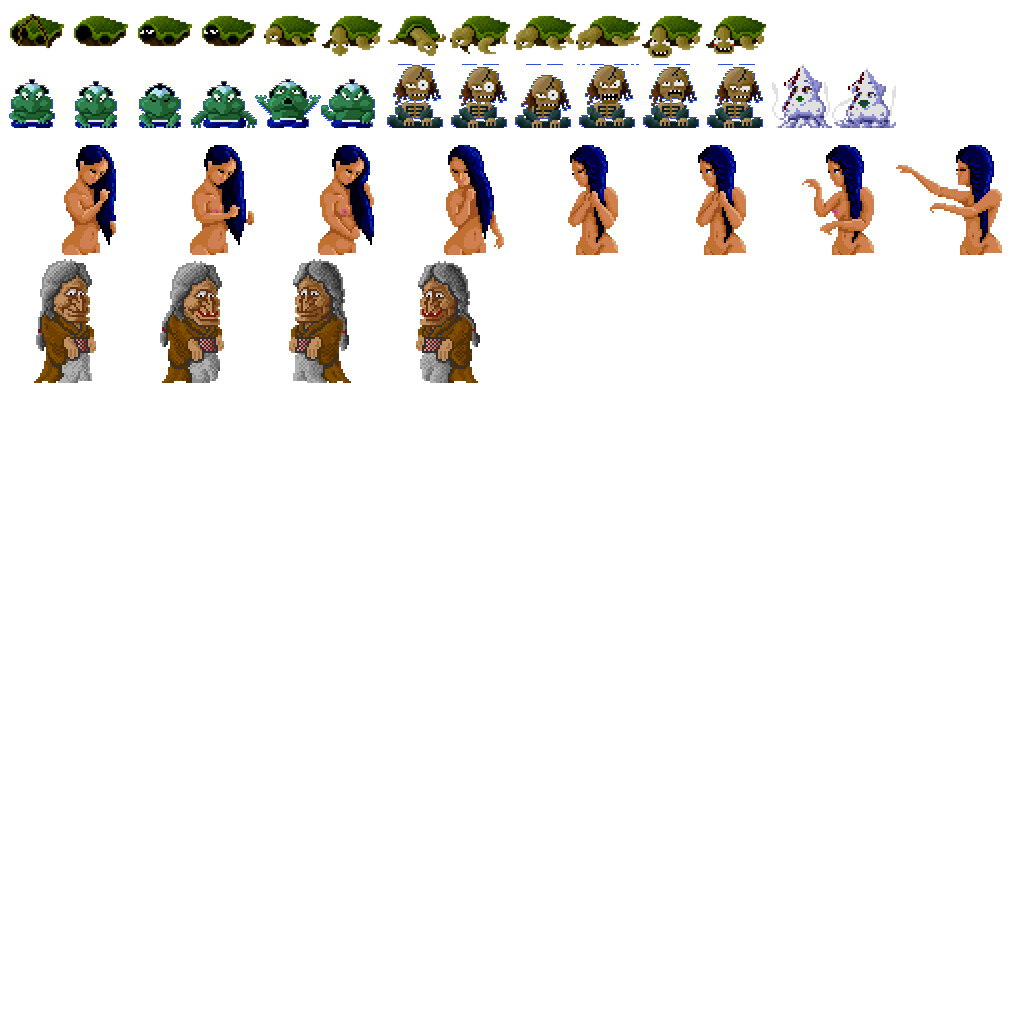
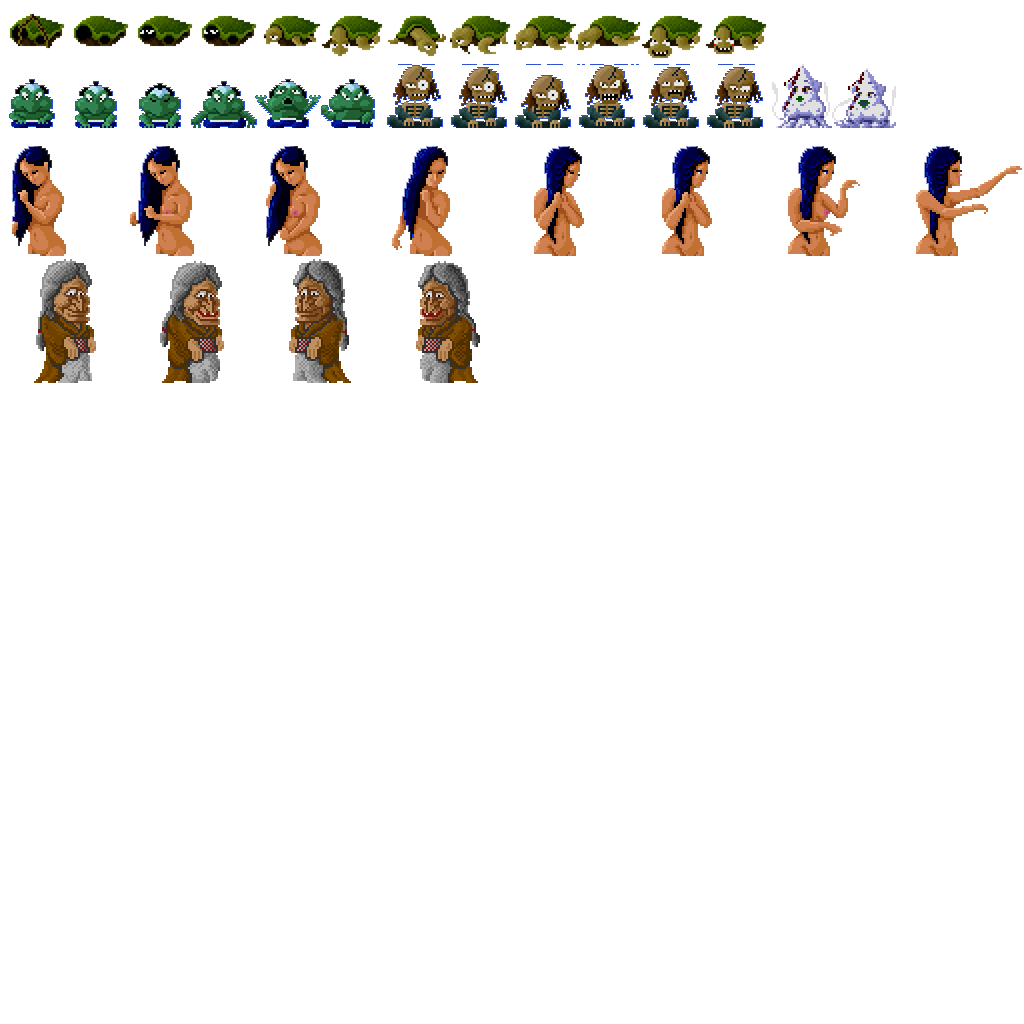
神子登場

Changed region(s): [[0.0, 0.125, 1.0, 0.25]]

diff --git a/Solution/AceLiveMonitor/MapEvent.cpp b/Solution/AceLiveMonitor/MapEvent.cpp
@@ -58,7 +58,7 @@ void MapEvent::update( ) {
 
 void MapEvent::setType( TYPE type ) {
 	_type = type;
-	if ( type == TYPE_SHOP ) {
+	if ( type == TYPE_SHOP || type == TYPE_LAKE ) {
 		NPC::getTask( )->popUpNPC( );
 	} else {
 		Military::getTask( )->createBoss( );
@@ -99,27 +99,27 @@ unsigned char MapEvent::getObject( int mx, int my ) const {
 		type = 2;
 		break;
 	case TYPE_ROCK:
-		while (mx >= EVENT_PAGE_NUM * PAGE_OBJECT_WIDTH_NUM) {
+		while ( mx >= EVENT_PAGE_NUM * PAGE_OBJECT_WIDTH_NUM ) {
 			mx -= PAGE_OBJECT_WIDTH_NUM;
 		}
 		type = 3;
 		break;
 	case TYPE_SHOP:
-		while (mx >= EVENT_PAGE_NUM * PAGE_OBJECT_WIDTH_NUM) {
+		while ( mx >= EVENT_PAGE_NUM * PAGE_OBJECT_WIDTH_NUM ) {
 			mx -= PAGE_OBJECT_WIDTH_NUM;
 		}
 		type = 4;
 	case TYPE_RYUGU:
-		while (mx >= EVENT_PAGE_NUM * PAGE_OBJECT_WIDTH_NUM) {
+		while ( mx >= EVENT_PAGE_NUM * PAGE_OBJECT_WIDTH_NUM ) {
 			mx -= PAGE_OBJECT_WIDTH_NUM;
 		}
 		type = 5;
 		break;
 	case TYPE_LAKE:
-		while (mx >= EVENT_PAGE_NUM * PAGE_OBJECT_WIDTH_NUM) {
+		while ( mx >= EVENT_PAGE_NUM * PAGE_OBJECT_WIDTH_NUM ) {
 			mx -= PAGE_OBJECT_WIDTH_NUM;
 		}
-		type = 5;
+		type = 6;
 		break;
 	}
 	assert( mx >= 0 && mx < EVENT_PAGE_NUM * PAGE_OBJECT_WIDTH_NUM && my < OBJECT_CHIP_HEIGHT_NUM );

diff --git a/Solution/AceLiveMonitor/NPC.cpp b/Solution/AceLiveMonitor/NPC.cpp
@@ -2,6 +2,7 @@
 #include "Application.h"
 #include "MapEvent.h"
 #include "NPCObaba.h"
+#include "NPCMiko.h"
 
 NPCPtr NPC::getTask( ) {
 	return std::dynamic_pointer_cast< NPC >( Application::getInstance( )->getTask( getTag( ) ) );
@@ -16,10 +17,15 @@ NPC::~NPC( ) {
 }
 
 void NPC::update( ) {
+	MapEvent::TYPE type = MapEvent::getTask( )->getType( );
 	std::list< CharacterPtr >::iterator ite = _npc_chara.begin( );
 	while( ite != _npc_chara.end( ) ) {
 		if ( !( *ite ) ) {
 			ite++;
+			continue;
+		}
+		if( type == MapEvent::TYPE_TITLE ) {
+			ite = _npc_chara.erase( ite );
 			continue;
 		}
 		( *ite )->update( );
@@ -29,9 +35,13 @@ void NPC::update( ) {
 
 void NPC::popUpNPC( ) {
 	MapEvent::TYPE type = MapEvent::getTask( )->getType( );
+	_npc_chara.clear( );
 	switch ( type ) {
 	case MapEvent::TYPE_SHOP:
 		_npc_chara.push_back( CharacterPtr( new NPCObaba( Vector( 800, 225 ) ) ) );
+		break;
+	case MapEvent::TYPE_LAKE:
+		_npc_chara.push_back( CharacterPtr( new NPCMiko( Vector( 200, 225 ) ) ) );
 		break;
 	}
 }

diff --git a/Solution/AceLiveMonitor/NPCMiko.cpp b/Solution/AceLiveMonitor/NPCMiko.cpp
@@ -1,0 +1,37 @@
+#include "NPCMiko.h"
+
+const int WAIT_ANIM_TIME = 10;
+
+NPCMiko::NPCMiko( const Vector& pos ) :
+Character( pos, BIG_CHAR_GRAPH_SIZE ) {
+}
+
+
+NPCMiko::~NPCMiko( ) {
+}
+
+void NPCMiko::act( ) {
+}
+
+Chip NPCMiko::getChip( ) const {
+	Chip chip = Chip( );
+	Vector pos = getPos( );
+	chip.size = getChipSize( );
+	chip.sx1 = ( int )pos.x - chip.size / 2;
+	chip.sy1 = ( int )pos.y - chip.size;
+	chip.sx2 = chip.sx1 + chip.size;
+	chip.sy2 = chip.sy1 + chip.size;
+	
+	const int ANIM[ ] = {
+		0, 1, 2
+	};
+	int anim_size = sizeof( ANIM ) / sizeof( ANIM[ 0 ] );
+	int cx = ANIM[ ( getActCount( ) / WAIT_ANIM_TIME ) % anim_size ];
+	//int cy = 2;
+	chip.tx = cx * chip.size;
+	chip.ty = 128;
+	return chip;
+}
+
+void NPCMiko::damage( int force ) {
+}

diff --git a/Solution/AceLiveMonitor/NPCMiko.h b/Solution/AceLiveMonitor/NPCMiko.h
@@ -1,0 +1,14 @@
+#pragma once
+#include "Character.h"
+
+class NPCMiko: public Character {
+public:
+	NPCMiko( const Vector& pos );
+	virtual ~NPCMiko( );
+public:
+	Chip getChip( ) const;
+protected:
+	void act( );
+	void damage( int force );
+};
+
